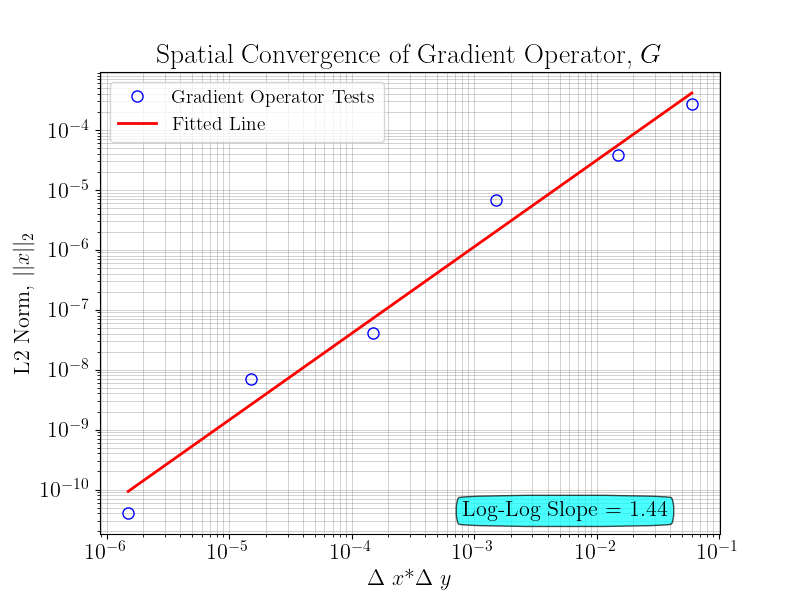
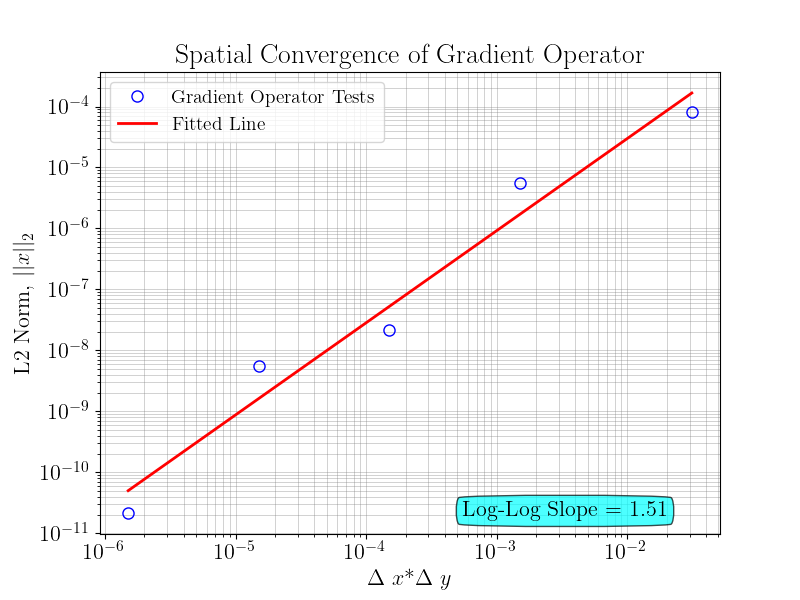
updated grad and div test figures

Changed region(s): [[0.0312, 0.06, 0.9062, 0.93], [0.0625, 0.45, 0.0938, 0.54]]

diff --git a/operator_verf.py b/operator_verf.py
@@ -15,7 +15,7 @@ import operators as op
 from init import *
 import visualization as vis
 
-def test_grad(dx, dy, nx, ny, Lx, Ly, q_size, outFile, plots=True):
+def test_grad(dx, dy, nx, ny, Lx, Ly, q_size, outFile, plots=True, save=False):
     
     # Choose function with known analytic solution for gradient
     functions = {
@@ -83,11 +83,11 @@ def test_grad(dx, dy, nx, ny, Lx, Ly, q_size, outFile, plots=True):
     acc = lin.slope
     
     if  plots:
-        vis.plotL2vsGridSize(lin, dxdy, err, outFile, 'Gradient')
+        vis.plotL2vsGridSize(lin, dxdy, err, outFile, 'Gradient', save=save)
 
     return dxdy, err, acc
    
-def test_div(dx, dy, nx, ny, Lx, Ly, g_size, outFile, plots=True):
+def test_div(dx, dy, nx, ny, Lx, Ly, g_size, outFile, plots=True, save=False):
     
     # Choose function with known analytic solution for divergence
     functions = {
@@ -169,7 +169,7 @@ def test_div(dx, dy, nx, ny, Lx, Ly, g_size, outFile, plots=True):
     acc = lin.slope
     
     if plots:
-        vis.plotL2vsGridSize(lin, dxdy, err, outFile, 'Divergence')
+        vis.plotL2vsGridSize(lin, dxdy, err, outFile, 'Divergence', save=save)
         
 
 

diff --git a/main.py b/main.py
@@ -14,7 +14,7 @@ outFile = 'output'+filename.split('inputs')[-1]
 #[u, v, p] = init(nx, ny)
 
 # Test Gradient Operator is Second-Order Accurate
-#[dxdy, err, acc] = opf.test_grad(dx, dy, nx, ny, Lx, Ly, q_size, outFile) 
+#[dxdy, err, acc] = opf.test_grad(dx, dy, nx, ny, Lx, Ly, q_size, outFile, save=True) 
 
 # Test Divergence Operator is Second-Order Accurate
-[dxdy, err, acc] = opf.test_div(dx, dy, nx, ny, Lx, Ly, p_size, outFile) 
+[dxdy, err, acc] = opf.test_div(dx, dy, nx, ny, Lx, Ly, p_size, outFile, save=True) 
